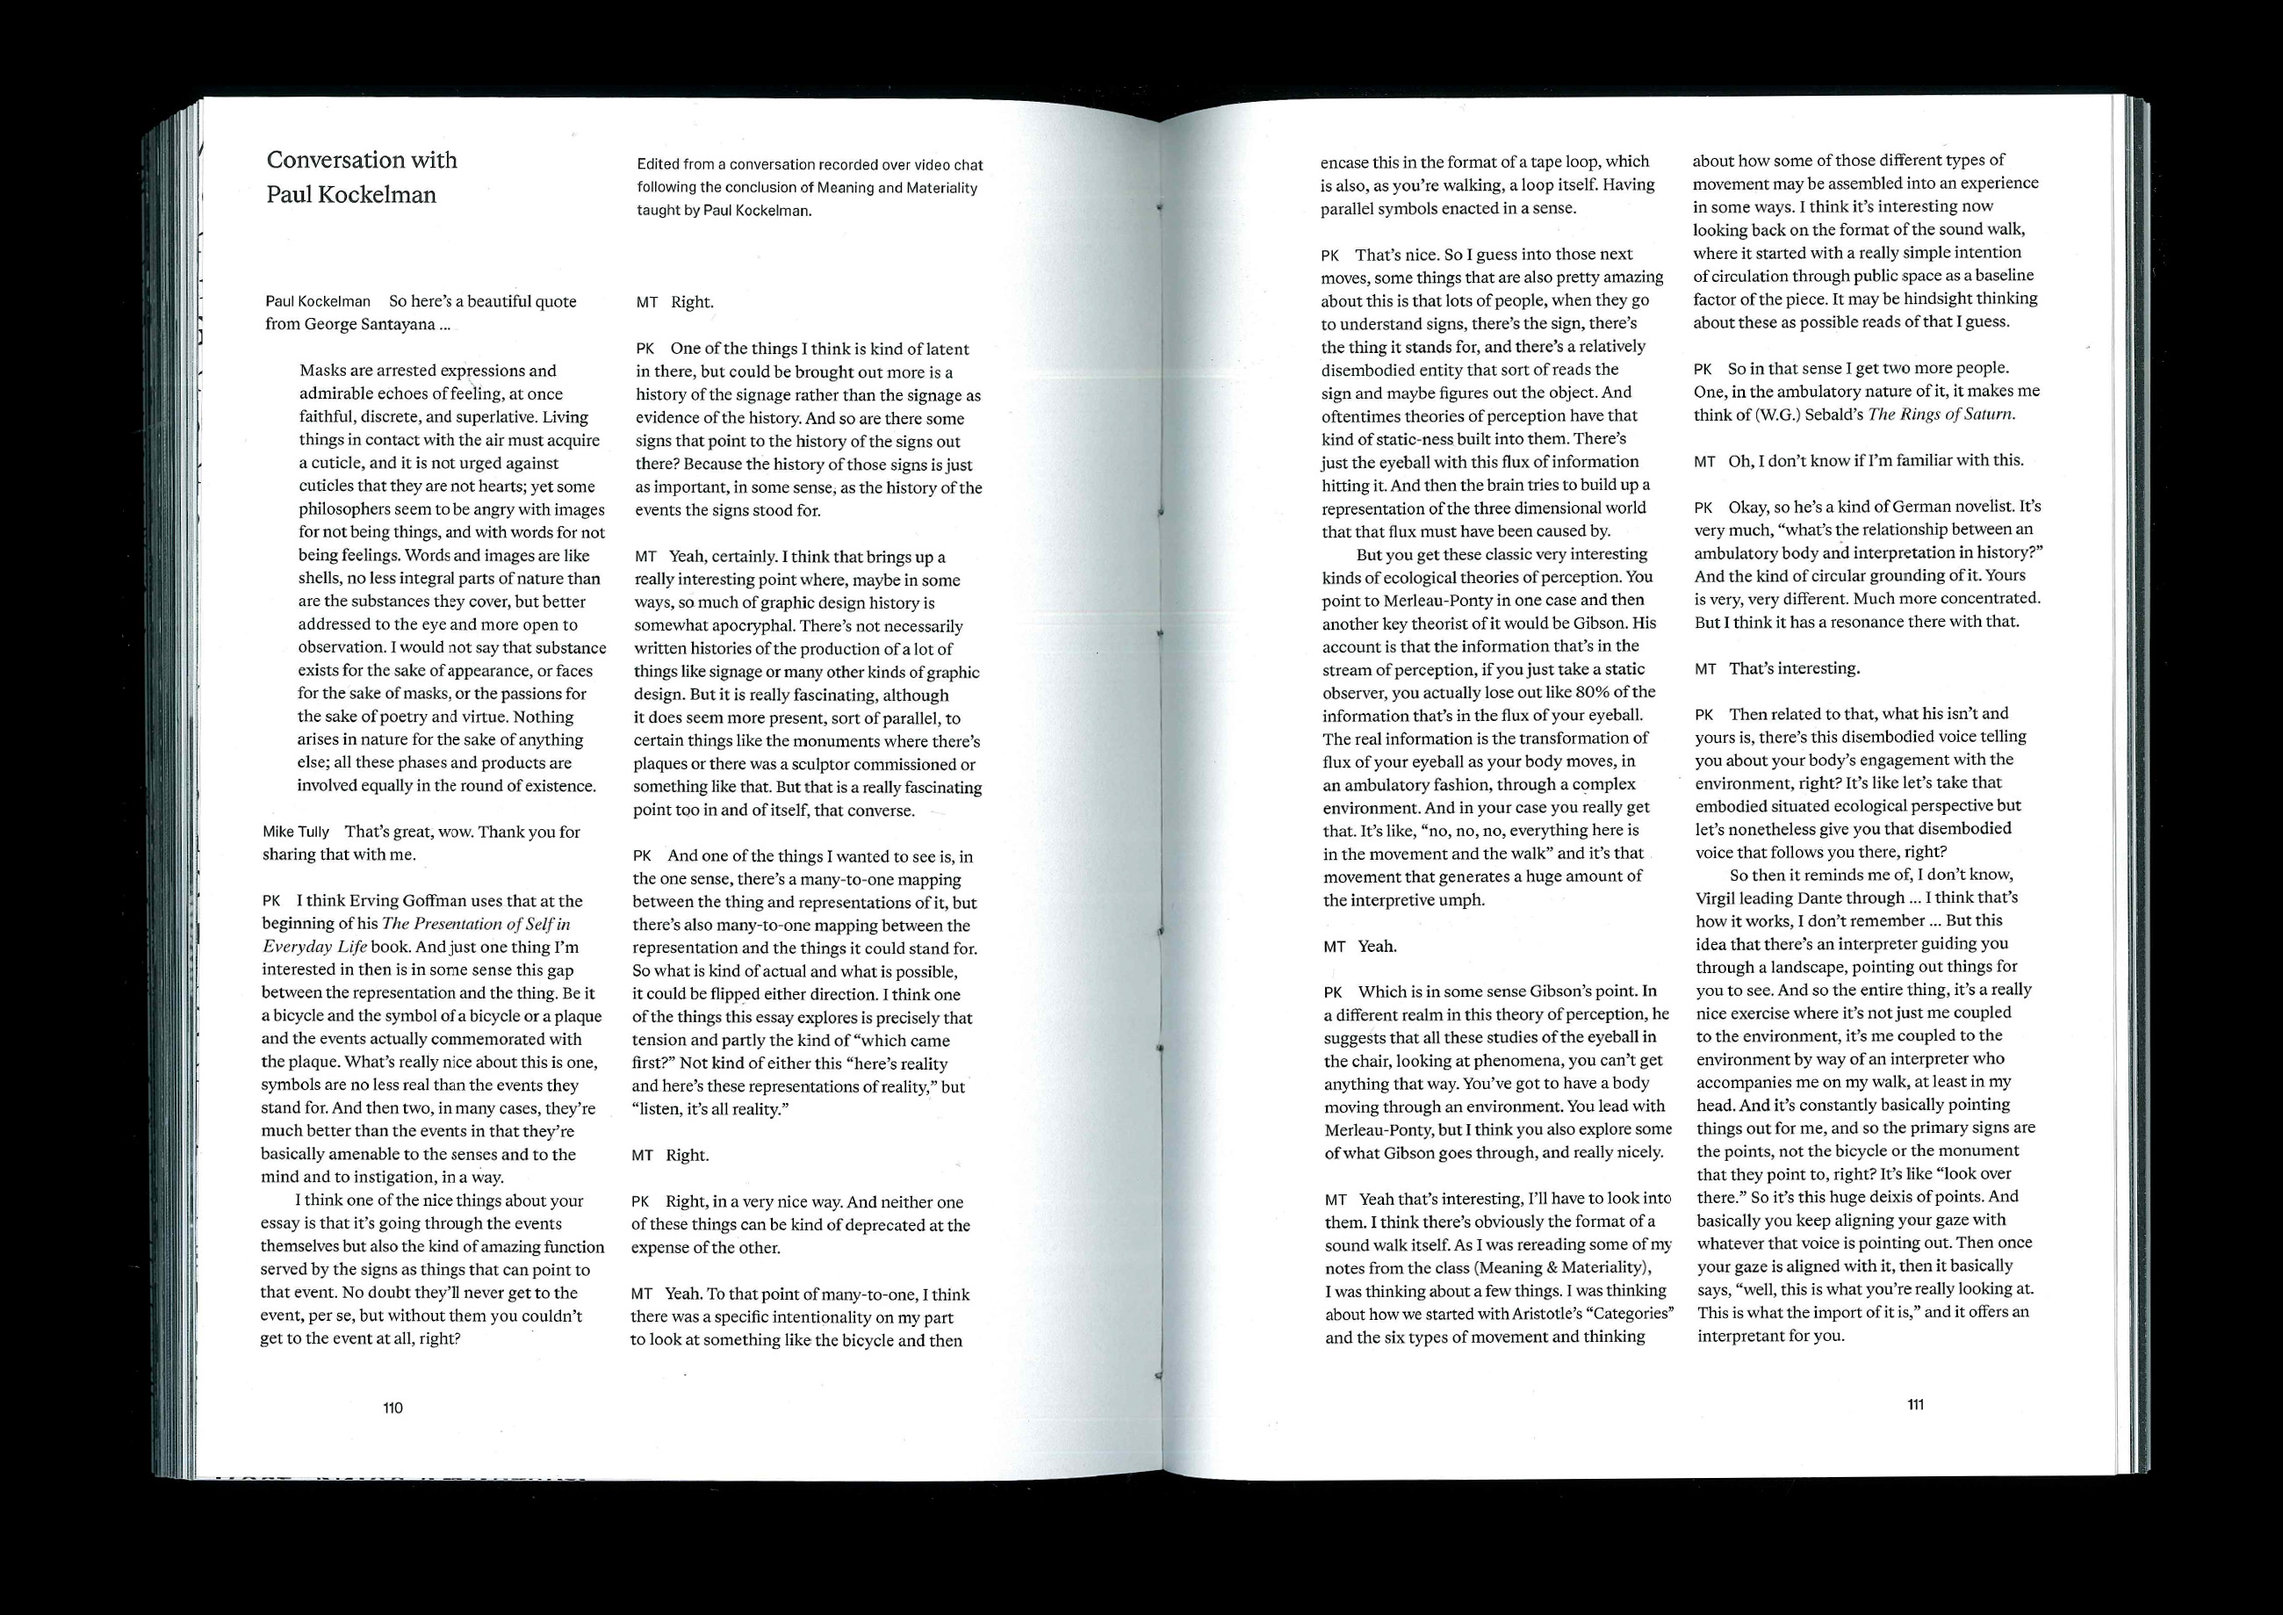
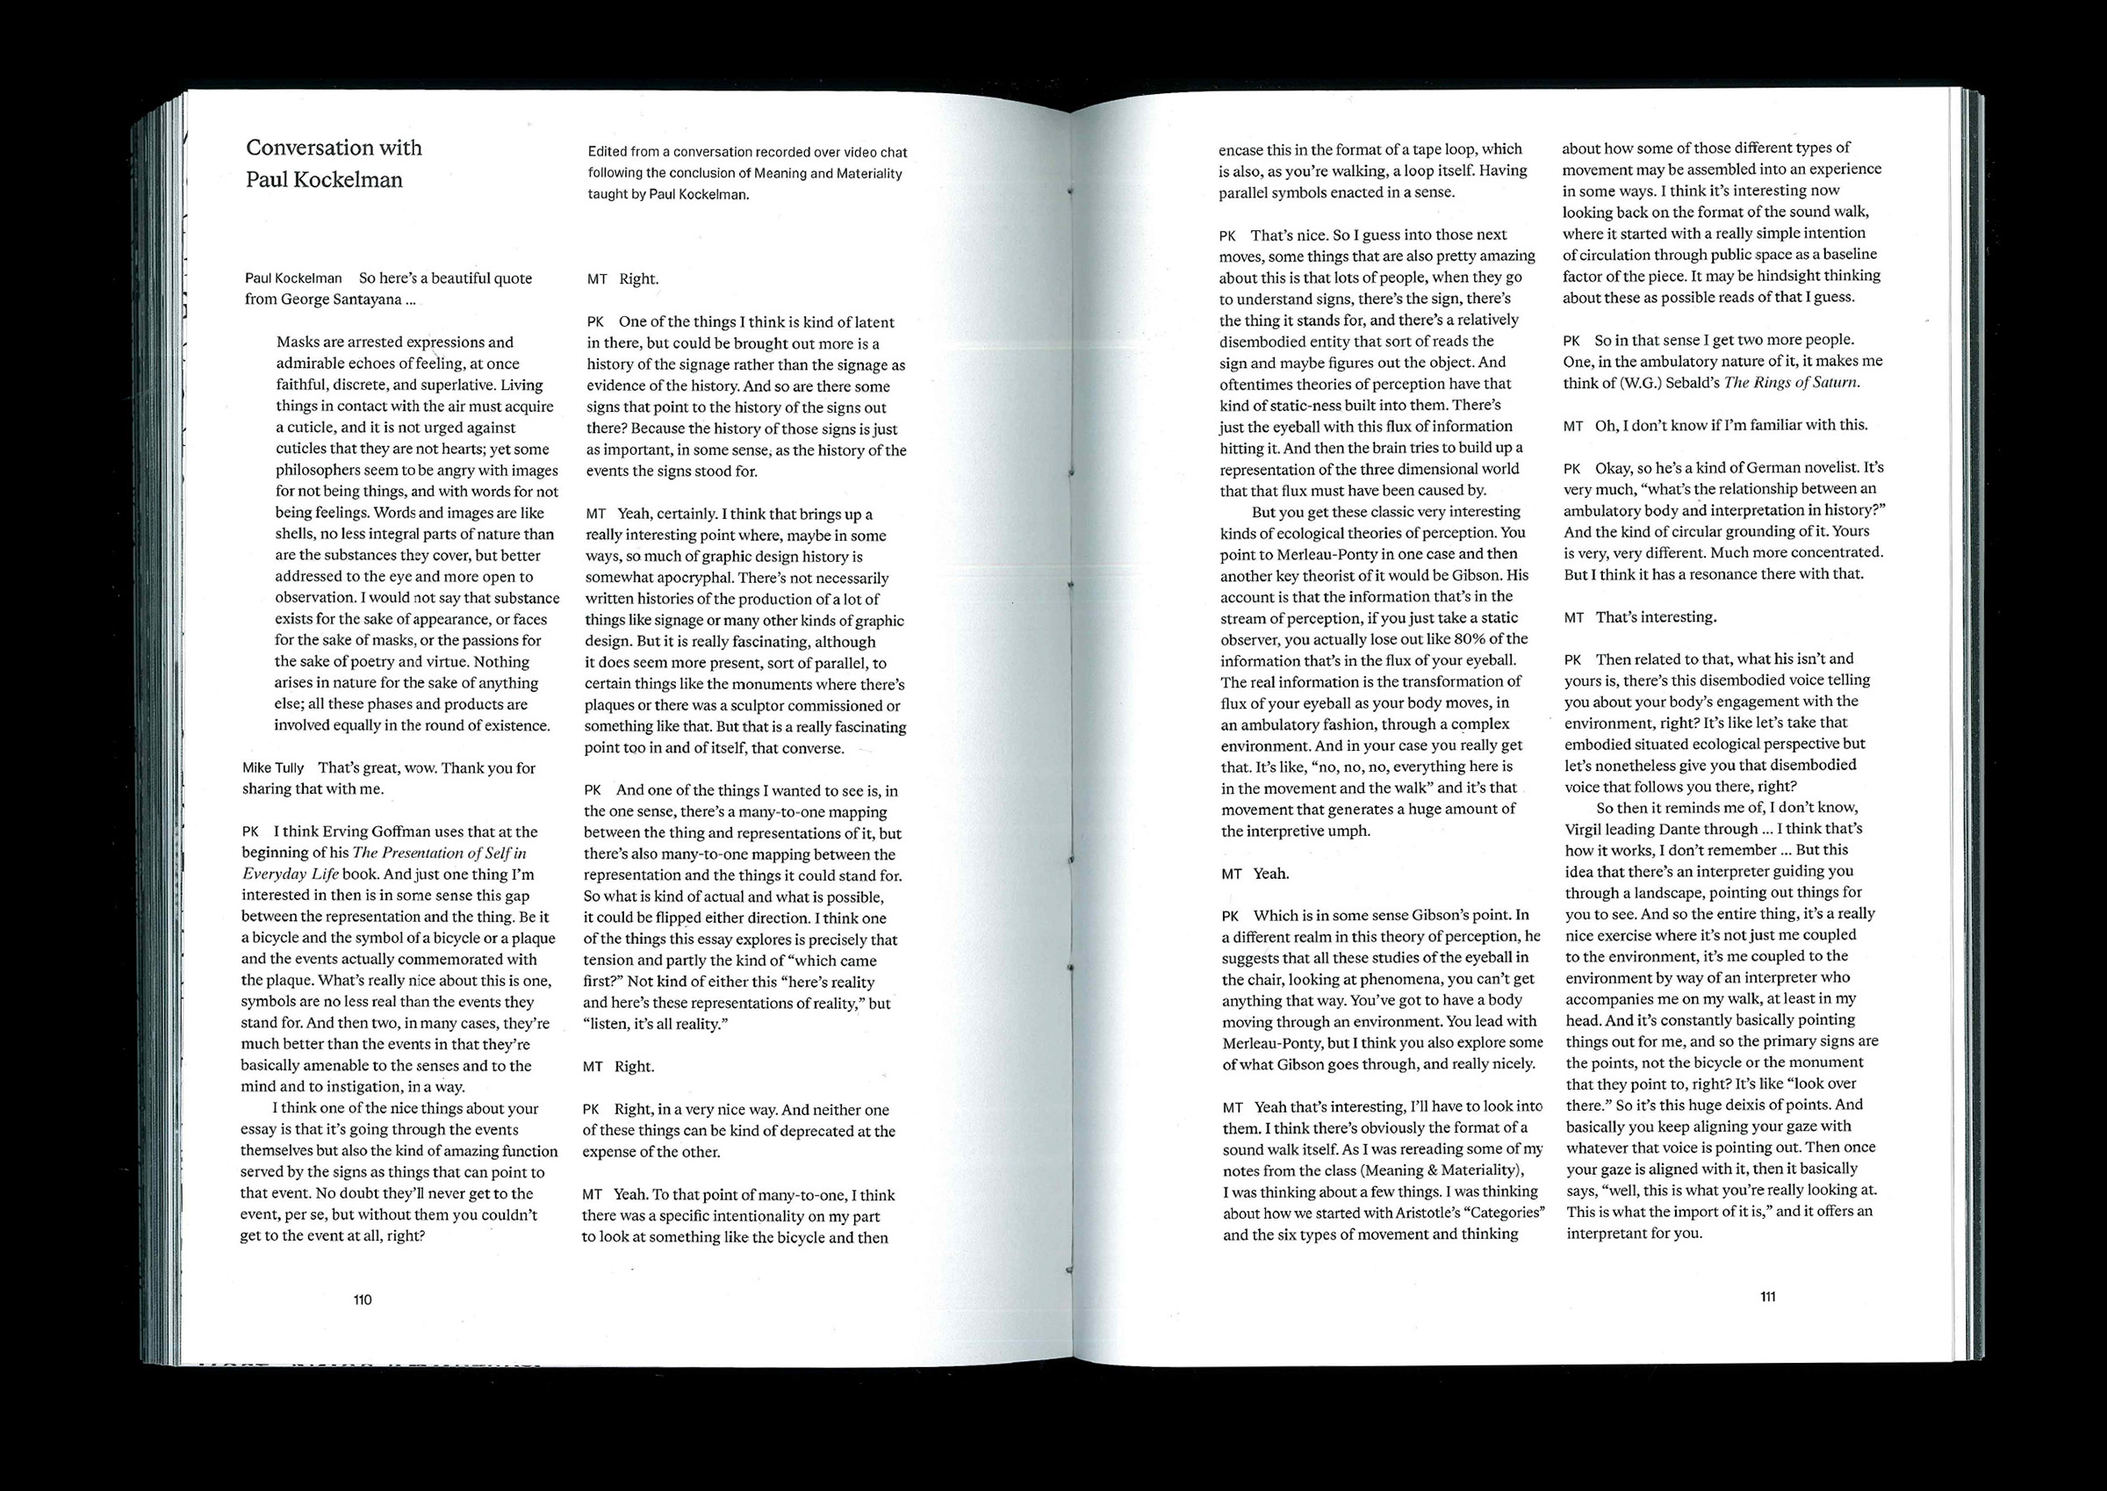
File size updates

diff --git a/index.html b/index.html
@@ -98,7 +98,7 @@
 
 
     <p class="caption">
-      <img src="files/images/CM_arena-annual.png"><br><br>
+      <img src="files/images/CM_arena-annual.jpg"><br><br>
       <a href="https://www.are.na/blog/community-memory" target="_blank">“On Community Memory,” Are.na Annual 2022</a><br>
       Research, Writing 
     </p>
